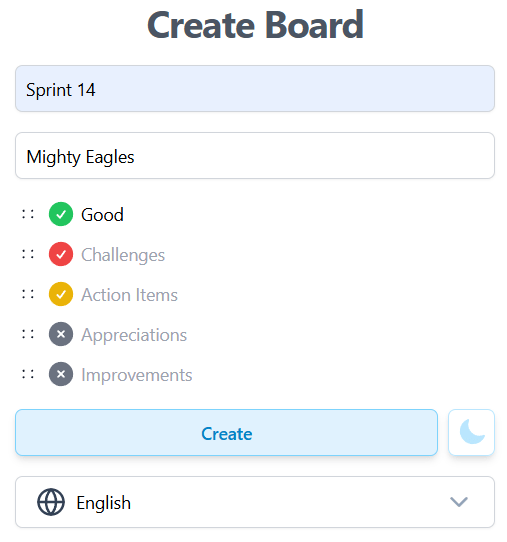
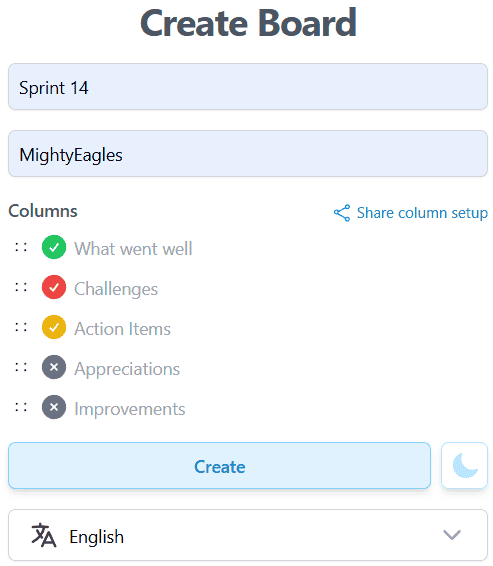
docs: update for v1.6.4

diff --git a/docs/docs/index.md b/docs/docs/index.md
@@ -24,50 +24,50 @@ hero:
 features:
   - icon: 🙅♂
     title: No Signups
-    details: That's right! No need to signup or login
+    details: Join instantly. No signup or login required.
   - icon: ♾
-    title: No Board Limits
-    details: Create Boards or Invite Users without limits
+    title: Unlimited Boards
+    details: Create as many boards as you need. Invite unlimited Users.
   - icon: 📱
-    title: Mobile Friendly UI
-    details: Easily participate from your mobile phone
+    title: Mobile Friendly
+    details: Fully responsive design for seamless mobile participation.
   - icon: 📝
-    title: Customize Columns
-    details: Choose upto 5 columns with any name in any order
+    title: Flexible Columns
+    details: Customize upto 5 columns. Rename, reorder them freely.
   - icon: 🙈
-    title: Mask/Blur messages
-    details: Avoid revealing messages of other participants
+    title: Blur messages
+    details: Mask message content to prevent bias during brainstorming.
   - icon: 👤
-    title: Anonymous Messages
-    details: Post messages without revealing your name
+    title: Anonymous Mode
+    details: Post anonymously to encourage honest feedback.
   - icon: ⬇
     title: Print as PDF
-    details: Print to save messages as PDF
+    details: Print to save messages as PDF.
   - icon: ⏱
     title: Countdown Timer
-    details: Stopwatch with max 1 hour limit
+    details: Keep meetings on track with a built-in stopwatch.
   - icon: 🔒
     title: Board Lock
-    details: Lock to stop addition/updation of messages
+    details: Lock boards to freeze content.
   - icon: 💬
     title: Comments
-    details: Add comments to discuss ideas directly on each card 
+    details: Add comments to discuss ideas directly on each card.
   - icon: 🌙
-    title: Dark Theme
-    details: Easily switch to use a Dark theme
+    title: Dark Mode
+    details: Switch between light and dark themes for comfort.
   - icon: 🔦
-    title: Focussed View
-    details: Highlight cards just for a User at a time
+    title: Focused View
+    details: Highlight cards just for a User at a time.
   - icon: 🤖
     title: Smart CAPTCHA Integration
-    details: Built-in integration with Cloudflare Turnstile
+    details: Built-in integration with Cloudflare Turnstile.
   - icon: 👥
-    title: Online Presence Display
-    details: See participants present in the meeting
+    title: Live Presence
+    details: See who is currently online in the meeting.
   - icon: ✍
     title: Live Typing Indicator
-    details: Know when others are typing
+    details: See when others are typing in real-time.
   - icon: 🗑
-    title: Auto-Delete data
-    details: Auto-delete data with configurable retention duration
+    title: Auto-Cleanup
+    details: Data is automatically deleted after a configurable duration.
 ---

diff --git a/docs/docs/guide/getting-started.md b/docs/docs/guide/getting-started.md
@@ -3,7 +3,7 @@
 This guide gives a quick and easy functional walkthrough of QuickRetro app.\
 To start, visit the site and type in a name to join as guest. There is no signup/login process.
 
-### Latest version <Badge type="tip" text="v1.6.3" />
+### Latest version <Badge type="tip" text="v1.6.4" />
 
 ## Try the Demo
 Try out the [live demo](https://demo.quickretro.app). It is recommended to self-host.
@@ -32,4 +32,9 @@ Nederlands\
 Українська (uk)\
 Italiano\
 Français (Canada)\
-Polski <Badge type="tip" text="v1.5.5^" />
+Polski
+
+::: info NOTE
+Languages are auto-detected from <Badge type="tip" text="v1.6.4" /> based on browser language settings.  
+If a user has already selected a language explicitly, the auto-deleted language won't be applied and the user's preference will be retained.
+:::

diff --git a/docs/docs/guide/create-board.md b/docs/docs/guide/create-board.md
@@ -30,6 +30,15 @@ Drag-and-Drop columns vertically to change the column order.
 
 When a Board is created, the user is taken to the [Dashboard](dashboard).
 
+## Share/Bookmark Custom Column Setups
+Available from <Badge type="tip" text="v1.6.4" />  
+Use the ***Share column setup*** button to create links for different custom column configurations.  
+These links can be bookmarked or shared with other board creators. Use the generated links to prefill or apply the column configurations directly.
+
+This is ideal for recurring retrospective formats or distributed teams.  
+
+<img src="/bookmark-share-column-setup.png" class="shadow-img" alt="Create Board" width="360" loading="lazy">
+
 ## Quick video
 
 <video class="video-play" id="createBoardVideo" controls width="640">

diff --git a/docs/docs/guide/development.md b/docs/docs/guide/development.md
@@ -5,7 +5,7 @@ outline: deep
 This guide is intended to help you get started with running the application locally, and making changes to it.
 
 ## Prerequisites
-- Go (project targets) <Badge type="tip" text="v1.25.4" />. Can also work on versions above <Badge type="tip" text="v1.21.6" />
+- Go (project targets) <Badge type="tip" text="v1.26.0" />.  
 - Node.js version <Badge type="tip" text="24.11.1" />
 - Docker
 - Redis is used as the datastore and for pubsub

diff --git a/docs/README.md b/docs/README.md
@@ -1,0 +1,17 @@
+This repo has the source for the static site hosted at https://quickretro.app  
+The docs are built using Vitepress.  
+
+Run the site   
+```sh
+npm run docs:dev
+```
+
+Build the site  
+```sh
+npm run docs:build
+```
+
+Preview the built site  
+```sh
+npm run docs:preview
+```
